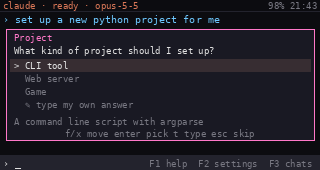
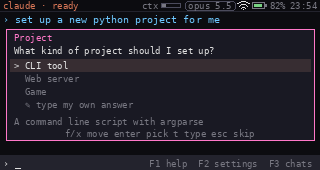
store screenshots: same six screens retaken with 0.7 (new status bar etc.)
make_screenshots.py: works with the current app (fakes for net, battery, askpass, settings),
optional SRC_DIR argument

Changed region(s): [[0.2812, 0.0, 1.0, 0.0882]]

diff --git a/tools/make_screenshots.py b/tools/make_screenshots.py
@@ -1,23 +1,30 @@
 """Render store screenshots (320x170 PNG) on the device using the real app code + fonts,
-with example content and no real Claude session. Usage: python3 make_screenshots.py OUTDIR"""
-import os, sys, time
-os.environ["CLAWPUTER_CHECKED"] = "1"
-sys.path.insert(0, "/usr/share/clawputer")
-import clawputer_gui as g
-import clawputer_setup as su
+with example content and no real Claude session. Usage: python3 make_screenshots.py OUTDIR [SRC_DIR]
+Touches nothing real: no framebuffer, keyboard, askpass socket, web ui or network."""
+import os
+import sys
+import time
 
 OUT = sys.argv[1]
+sys.path.insert(0, sys.argv[2] if len(sys.argv) > 2 else "/usr/share/clawputer")
+os.environ.update(CLAWPUTER_CHECKED="1", CLAWPUTER_HIDE="1")
+import clawputer_gui as g  # noqa: E402
+import clawputer_setup as su  # noqa: E402
+
 os.makedirs(OUT, exist_ok=True)
 shots = []
 
 
 class FB:
+    prev = None
     def write(self, img): shots.append(img.copy())
-    def close(self): pass
+    def save_raw(self, path): pass
+    def close(self, blank=True): pass
 
 
 class KB:
     fd = -1
+    def read(self): return []
     def close(self): pass
 
 
@@ -28,17 +35,25 @@ class FakeClaude:
     def answer(self, *a): pass
     def close(self): pass
     def interrupt(self): return True
+    def fileno(self): return -1
 
 
-g.Framebuffer, g.Keyboard, g.ClaudeSession = FB, KB, FakeClaude
+class FakeNet:
+    online, changed = True, False
+
+
+g.Framebuffer, g.Keyboard, g.ClaudeSession, g.NetCheck = FB, KB, FakeClaude, FakeNet
 g.list_chats = lambda: []
 g.install_claude_md = lambda: None
-
-
-def fresh():
-    a = g.App.__new__(g.App)
-    g.App.__init__  # noqa
-    return a
+g.load_settings = lambda: dict(g.DEFAULTS)          # not your real settings
+g.save_settings = lambda cfg: None
+g.App.open_askpass = lambda self: None
+g.App.set_state = lambda self, st: None
+g.battery = lambda: (82, False)
+g.battery_clock = lambda: "82% " + time.strftime("%H:%M")
+g.net_kind = lambda: "wifi"
+g.play_chime = lambda kind="done": None
+g.backlight_set = lambda v: None
 
 
 def app():
@@ -47,13 +62,16 @@ def app():
         a.setup.close()
         a.setup = None
     a.begin_chat()
-    a.entries.clear(); a.lines_cache = None
-    a.status = "ready · opus-5-5"
-    a.cfg["enter"] = "send"
+    a.entries.clear()
+    a.lines_cache = None
+    a.handle({"type": "system", "subtype": "init", "session_id": "s", "model": "claude-opus-5-5"})
+    a.ctx_used, a.ctx_window = 41000, 200000
+    a.cfg.update(enter="send", style="plain")
     return a
 
 
 def save(a, name):
+    a.dirty = True
     a.draw()
     shots[-1].save(os.path.join(OUT, name))
     print("saved", name)
@@ -91,7 +109,8 @@ save(a, "3-question.png")
 a = app()
 a.claude = None
 a.open_mode(first=False)
-a.modescr["boost"] = True; a.modescr["gpu"] = 128
+a.modescr["boost"] = True
+a.modescr["gpu"] = 128
 a.modescr["ram"] = 0
 save(a, "4-start.png")
 
